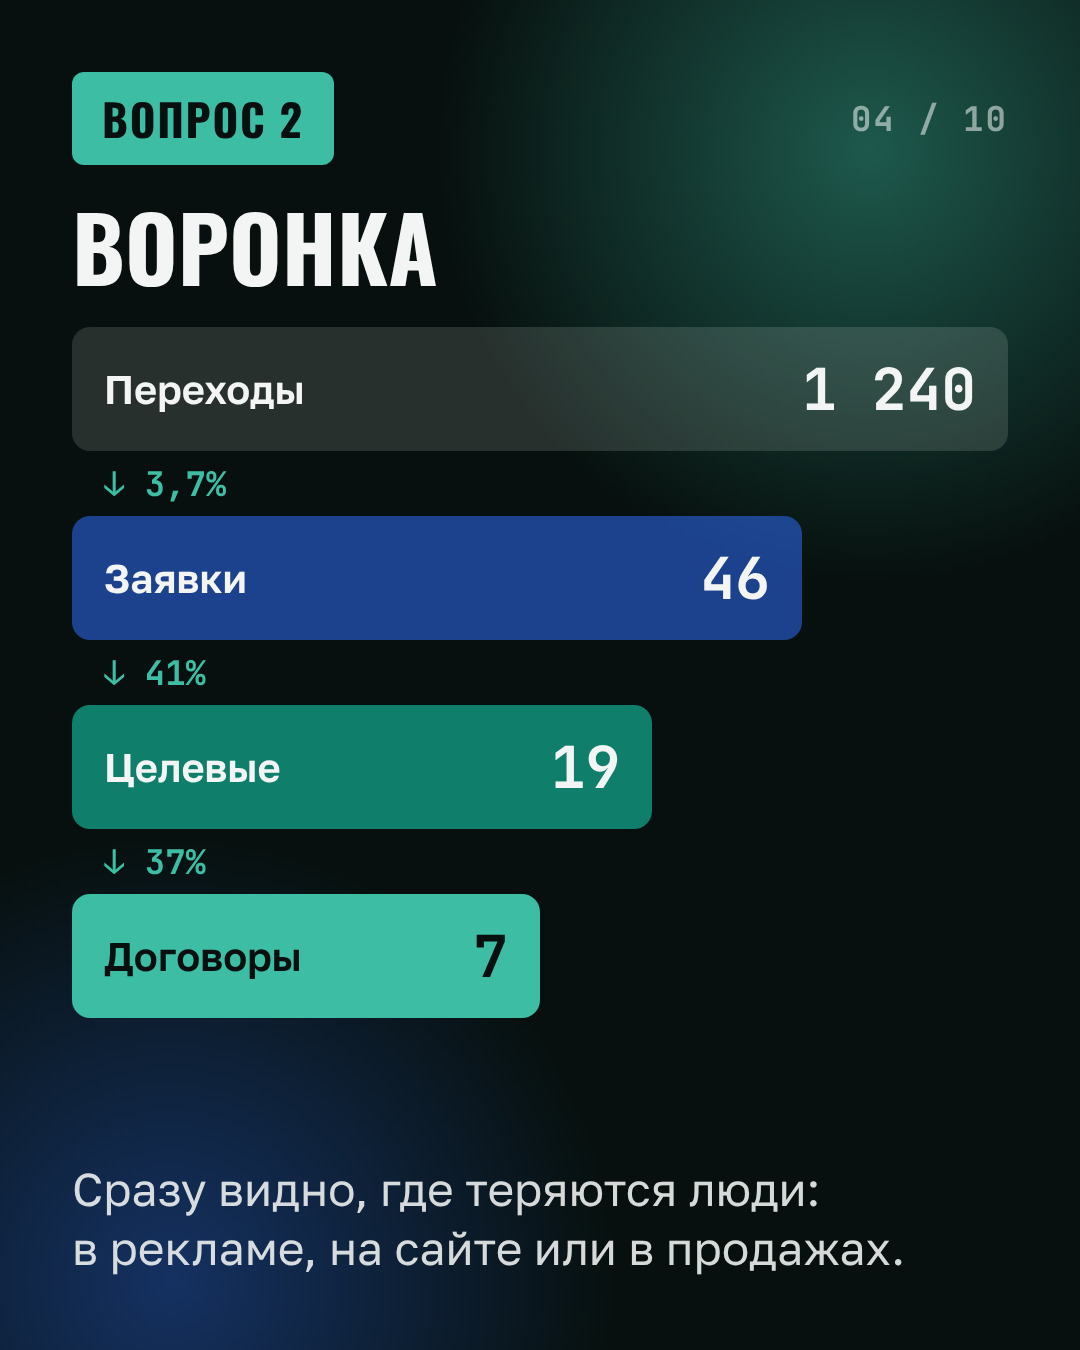
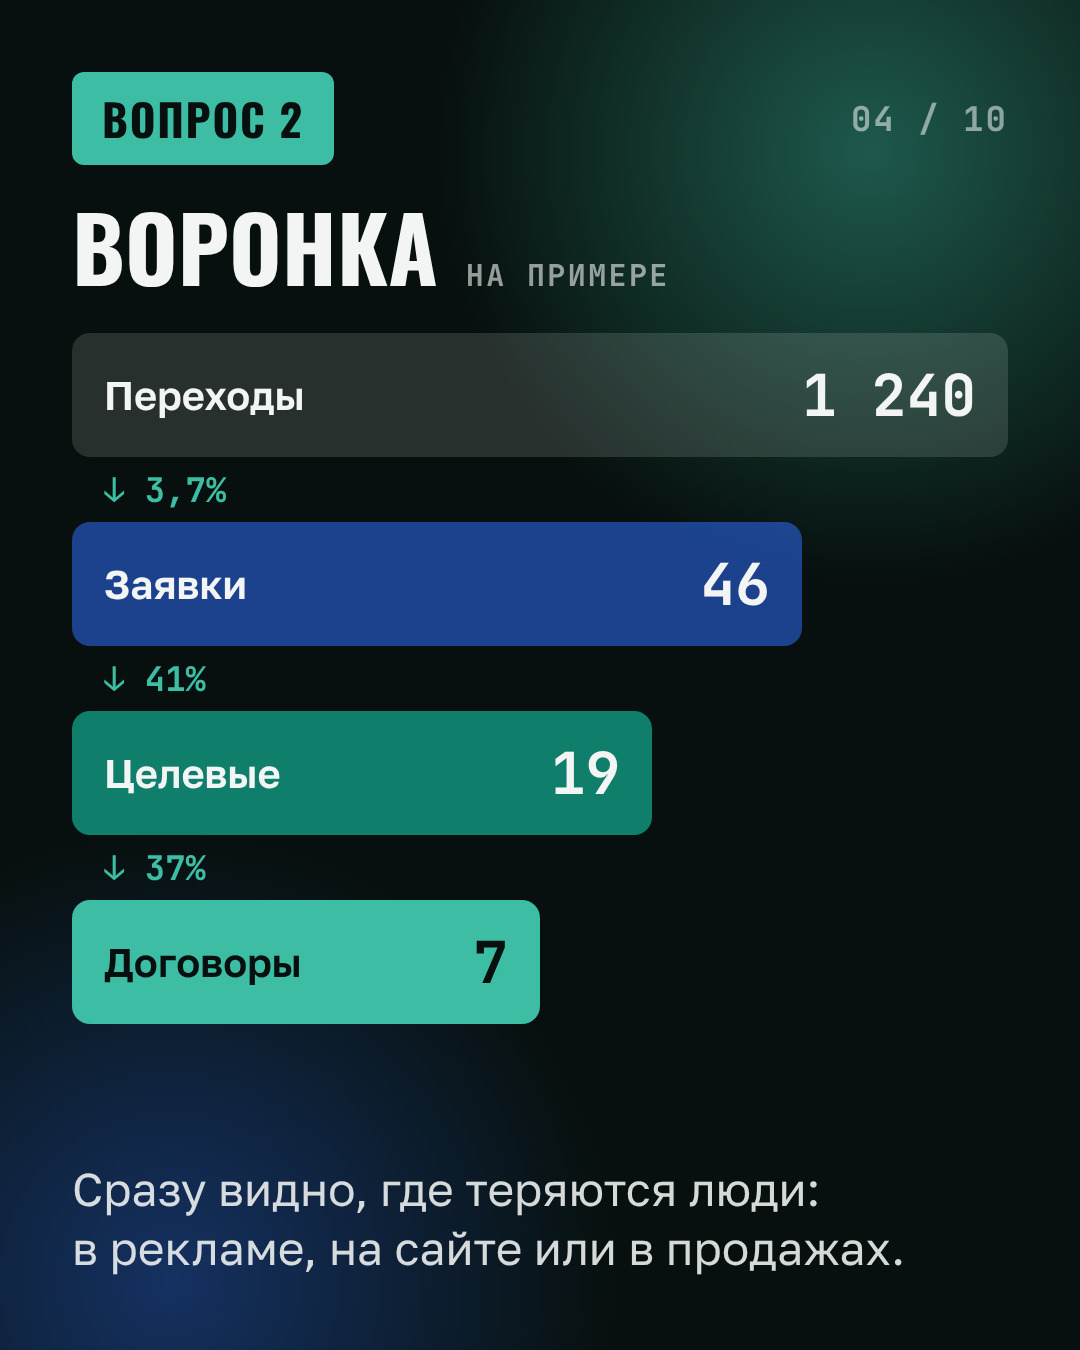
Карусель 03: пометка «на примере» на воронке
Claude-Session: https://claude.ai/code/session_015ZopJ3CHHh4r3eQSk2mJXd

Changed region(s): [[0.0611, 0.1867, 0.9167, 0.7778]]

diff --git a/carousels/03-pervyj-sozvon/src/build3.py b/carousels/03-pervyj-sozvon/src/build3.py
@@ -78,7 +78,7 @@ def fbar(label, num, w, bg, fg="#F3F5F4"):
 def conv(p):
     return f'<span class="mono" style="font-size:34px;font-weight:700;color:{TEAL};padding-left:32px">↓ {p}</span>'
 slides[4] = page3("dark", f"""{top('Вопрос 2', 4)}
-<h2>Воронка</h2>
+<div style="display:flex;align-items:baseline;gap:28px"><h2>Воронка</h2><span class="cap" style="color:rgba(243,245,244,.6)">на примере</span></div>
 <div style="display:flex;flex-direction:column;gap:10px">
  {fbar('Переходы','1 240',100,'rgba(243,245,244,.14)')}{conv('3,7%')}
  {fbar('Заявки','46',78,'rgba(45,108,246,.55)')}{conv('41%')}
